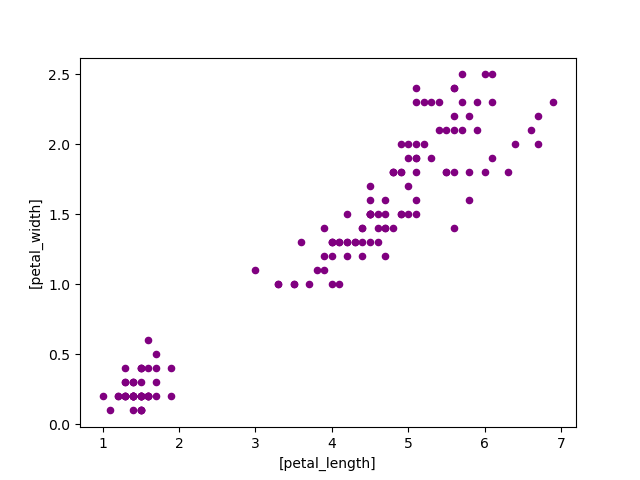
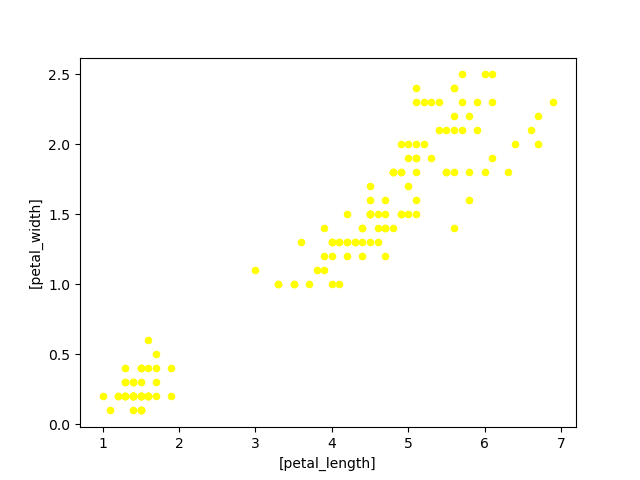
Scatter Plot png files updated, final checks carried out on all content in the project repository

diff --git a/analysis.py b/analysis.py
@@ -1,5 +1,5 @@
-# This program involves the Fisher's Iris data set and outputs:
-# 1. Summary of each variable to a single text file.
+# This program involves the Fisher's Iris data set and outputs the following:
+# 1. Summary of each variable to a txt file.
 # 2. Histogram of each variable to png files.
 # 3. Scatter plot of each pair of variables to png files.
 # Author: Jonathon Grealish
@@ -15,31 +15,34 @@ import matplotlib.pyplot as plt # histogram tool
 import seaborn # scatter plot tool
 import csv # csv tool
 
-data = pd.read_csv("IRIS.csv") # this imports all data stored in the csv file
+data = pd.read_csv("IRIS.csv") # this imports all data stored in the csv file.
 
+# 1. Summary of each variable to a txt file:
+# To convert csv to txt:
 # Open text file with "w" (write), creating the file.
-file = open("summary.txt", "w")
 # Open csv file to read, using "with" as.
+# Manipulate all values in the file.write() using a for loop to iterate through each row of data.
+# Format all integers in data to strings, with spacing in between each column of values.
+# Close the file after writing to it.
+file = open("summary.txt", "w")
 with open("IRIS.csv") as csvFile:
     readCsv = csv.reader(csvFile)
     for row in readCsv:
-        # Manipulate all values in the file.write() using a for loop to iterate through each row of data.
         Id = row[0]
         Id1 = row[1]
         Id2 = row[2]
         Id3 = row[3]
         Id4 = row[4]
-        # Format all integers in data to strings, with spacing in between each column of values.
         file.write(str(Id4) + "  " + str(Id3) + "  " + str(Id2) + "  " + str(Id1) + "  " + str(Id) + "  " + "\n")
-# Close the file after writing to it.
 file.close()
 
+# 2. Histogram of each variable to png files:
 # For each histogram below:
-# plt.figure(figsize = (x,y)) sets up the histogram's size.
+# plt.figure(figsize = (10,7)) sets up the histogram's size.
 # The variable x contains data related to an attribute from the csv file.
 # plt.hist uses the data, bins (which divide the entire range into intervals) and colour.
 # Titles for the histogram and axes are then added.
-# The histogram is then saved using plt.savefig to a png file.
+# The histogram is then saved using plt.savefig() to a png file.
 
 # Histogram for Sepal Length:
 plt.figure(figsize = (10, 7))
@@ -85,17 +88,18 @@ plt.ylabel("Count")
 
 plt.savefig("IrisPetalWidth.png")
 
+# 3. Scatter plot of each pair of variables to png files:
 # For each scatter plot below:
 # Titles of the pair of attributes are established on the axes.
-# The pair of attributes are plotted from the csv file.
-# The scatter plot is then saved using plt.savefig to a png file.
+# The attributes are plotted via data.plot(kind, x, y, c), using attribute values from the csv file.
+# The scatter plot is then saved using plt.savefig() to a png file.
 
 # Scatter Plot for Sepal Length & Sepal Width:
 plt.title("Sepal Length & Width Plot")
 plt.xlabel("Sepal_Length")
 plt.ylabel("Sepal_Width")
 
-data.plot(kind = "scatter", x = ["sepal_length"], y = ["sepal_width"], color = ["purple"])
+data.plot(kind = "scatter", x = ["sepal_length"], y = ["sepal_width"], color = "purple")
 plt.savefig("IrisSepals.png")
 
 # Scatter Plot for Petal Length & Petal Width:
@@ -103,5 +107,5 @@ plt.title("Petal Length & Width Plot")
 plt.xlabel("Petal_Length")
 plt.ylabel("Petal_Width")
 
-data.plot(kind = "scatter", x = ["petal_length"], y = ["petal_width"], color = ["purple"])
+data.plot(kind = "scatter", x = ["petal_length"], y = ["petal_width"], color = "yellow")
 plt.savefig("IrisPetals.png")
